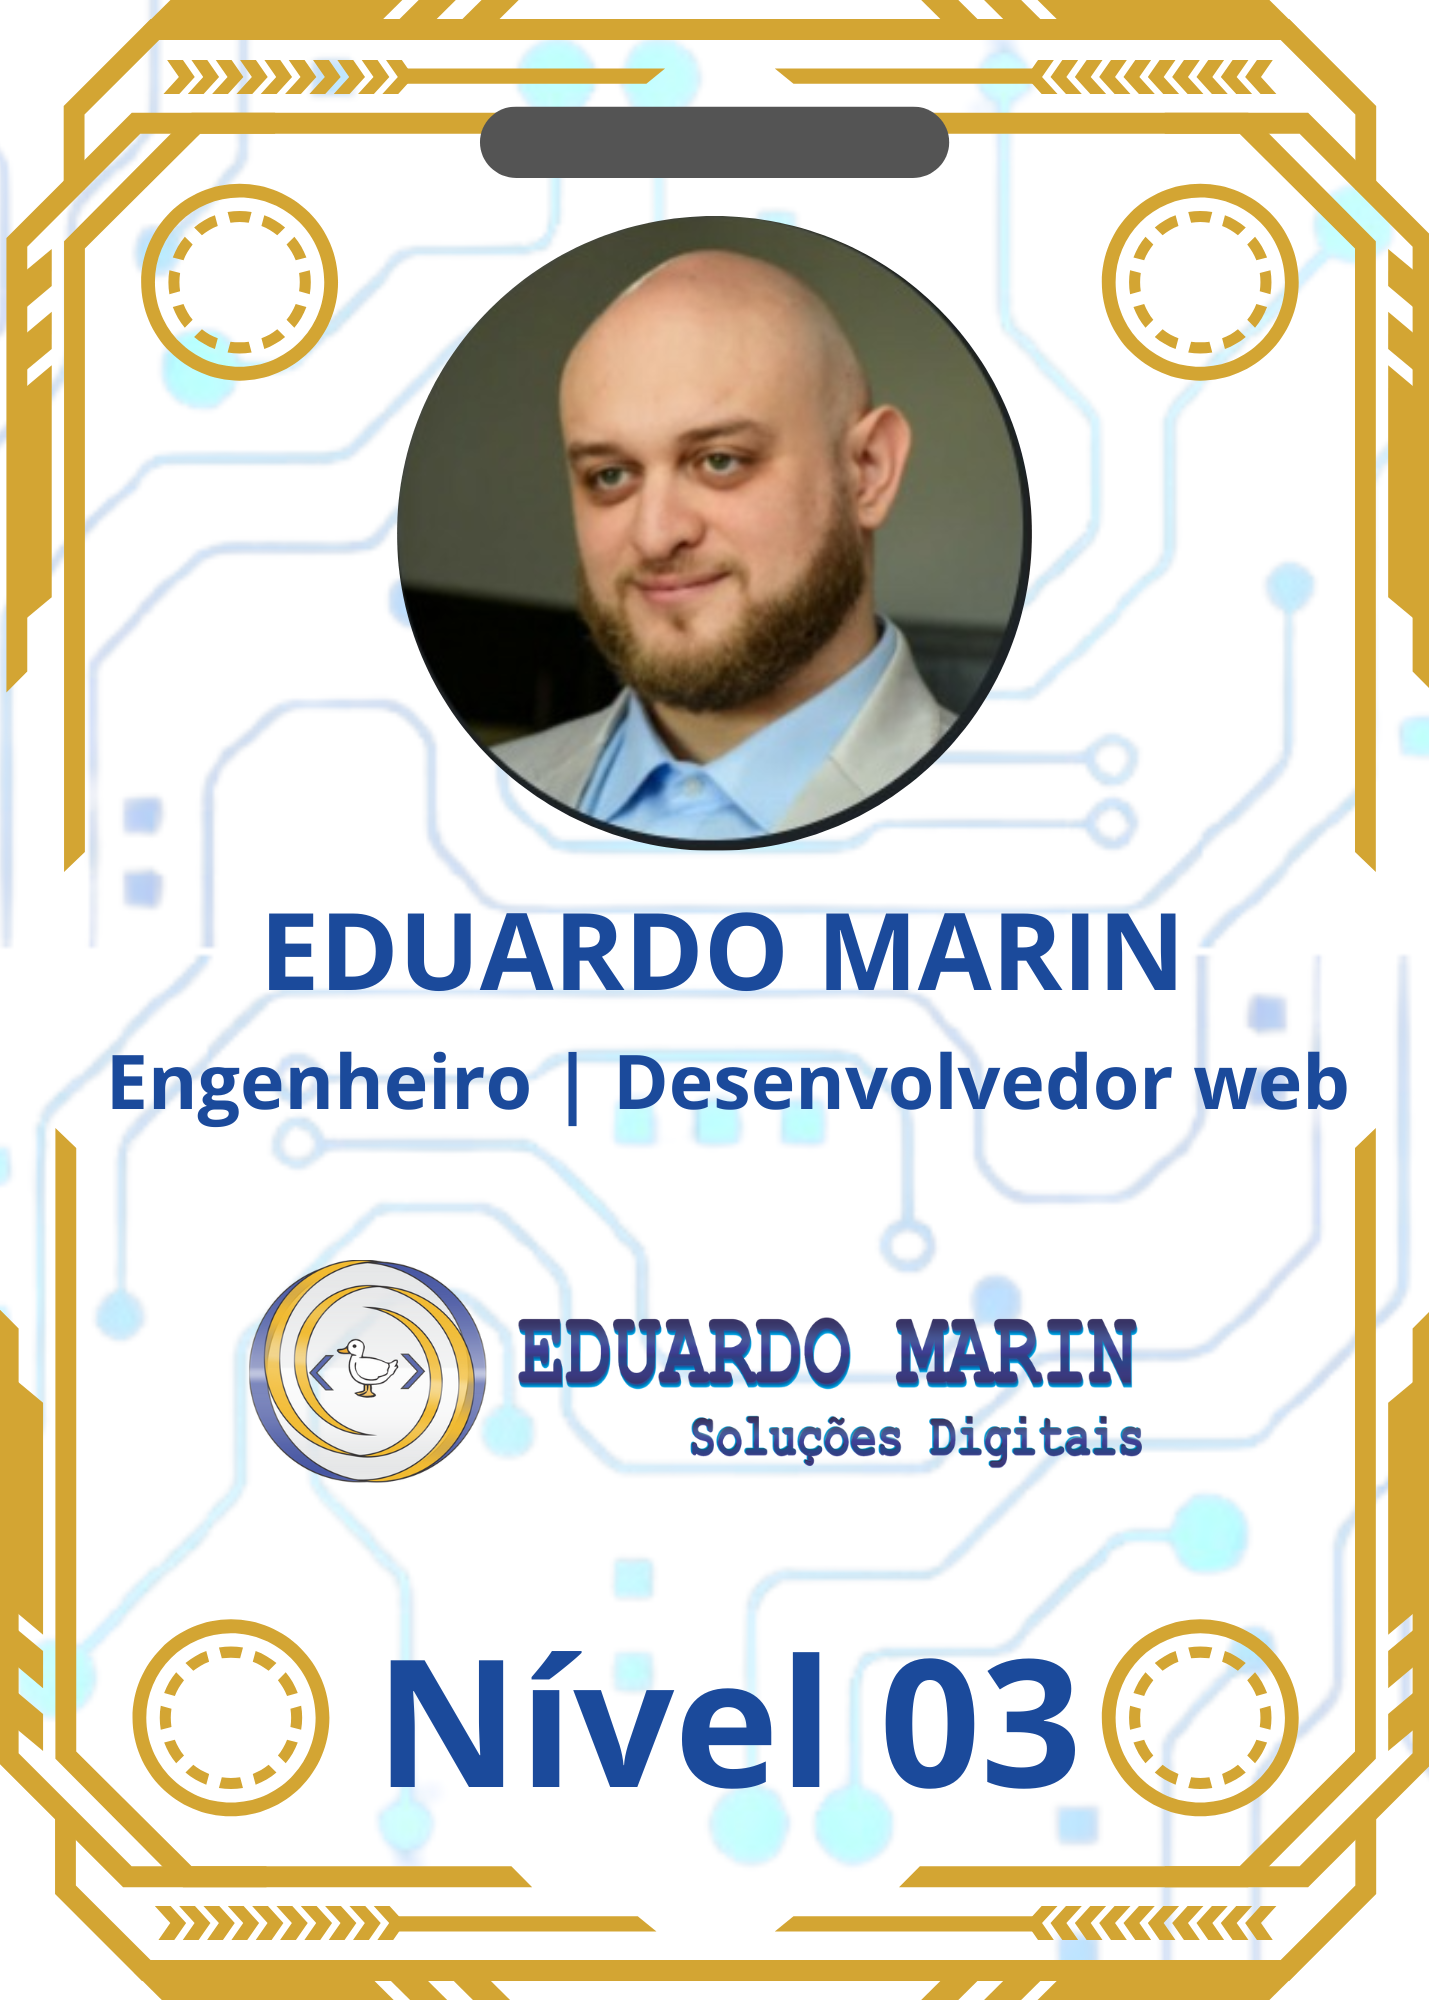
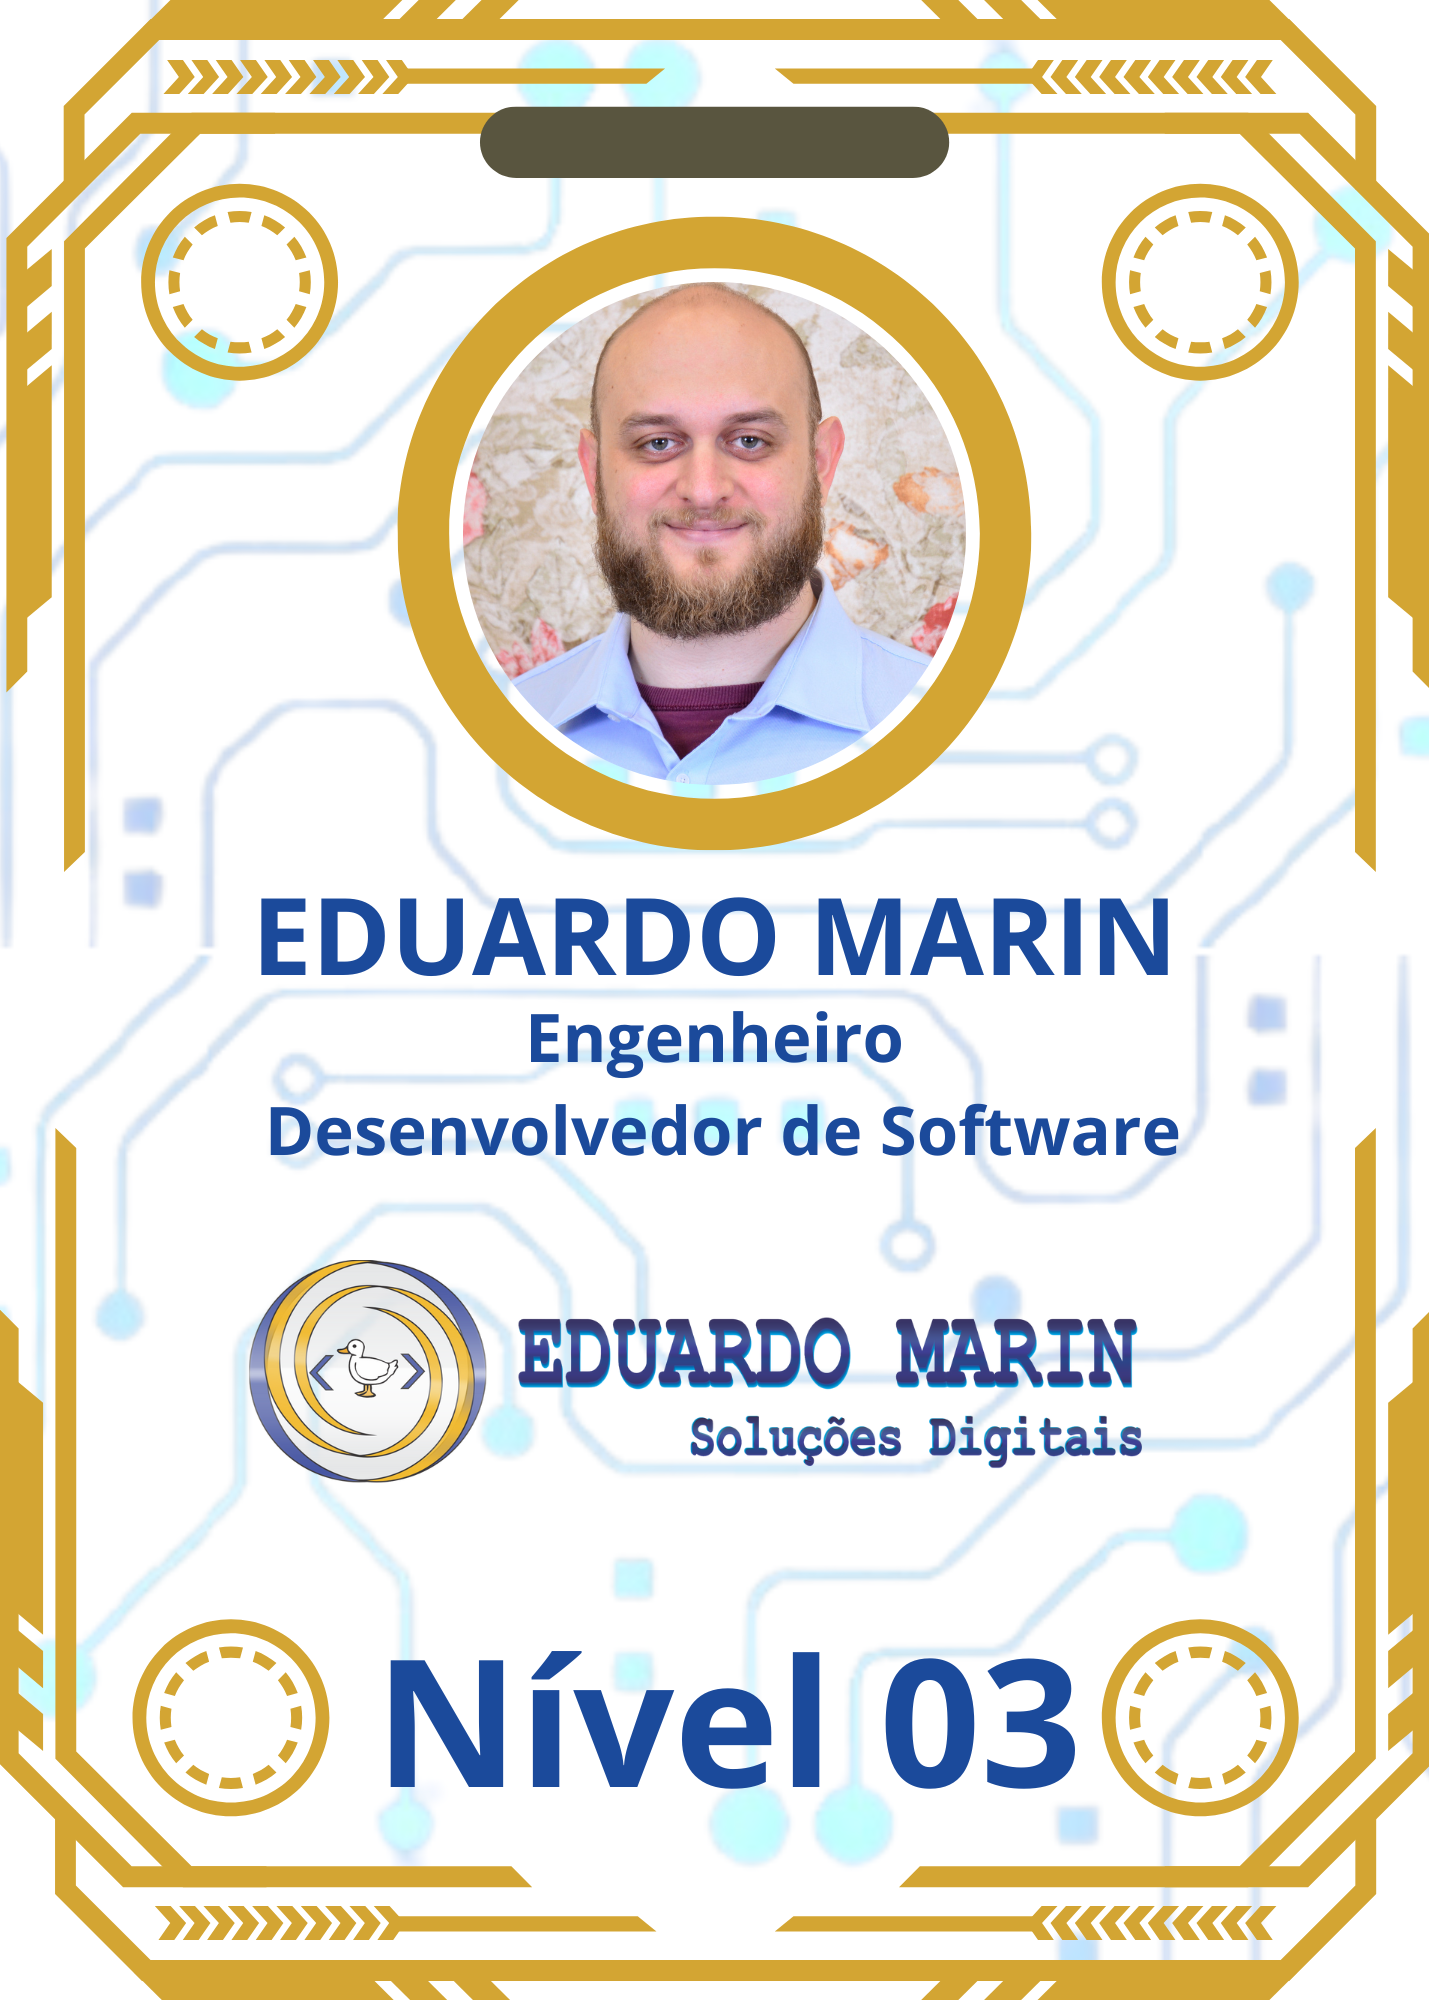
1.0.0

Changed region(s): [[0.0616, 0.093, 0.9545, 0.589]]

diff --git a/restrictedAccess.html b/restrictedAccess.html
@@ -74,7 +74,7 @@
     <div class="card-body">
       <blockquote class="blockquote mb-0">
         <p>O lugar perfeito para saber de todas as novidades e novos protótipos desenvolvidos pela <strong>Eduardo Marin Soluções Digitais</strong></p>
-        <footer class="blockquote-footer">Desenvolvedor - <cite title="Source Title">Eduardo Marin</cite></footer>
+        <footer class="blockquote-footer"><cite title="Source Title">Eduardo Marin</cite></footer>
       </blockquote>
     </div>
   </div>
@@ -155,54 +155,30 @@
 
 <div class="container-spacing"></div>
 
-
-<div class="row row-cols-1 row-cols-md-3 g-4">
-  <div class="col">
-    <div class="card h-100">
-      <img src="./images/gamingimage.png" class="card-img-top" alt="...">
-      <div class="card-body">
-        <h5 class="card-title">Templates novos</h5>
-        <p class="card-text">Desenvolvidos para atender a sua necessidade de se destacar entre os demais, conquiste seus clientes pelo seu estilo e performance em entregar a melhor experiência.</p>
-      </div>
-      <div class="card-footer">
-        <small class="text-body-secondary">20/04/2023</small>
-      </div>
+<h3 id="novidade">Boletim</h3>
+<div class="noticia-container">
+  <div class="container-spacing"></div>
+  <div class="card" style="width: 20rem; border-bottom: 5px solid #000000;border-right: 5px solid #000000;">
+    <img src="./images/aplicacaomockup.png" class="card-img-top" alt="...">
+    <div class="card-body">
+      <p class="card-text"><strong>Aplicação em softwares</strong><br>A companhia inicia investimentos em aplicações web para o desenvolvimento de softwares destinados aos empreendedores.</p>
     </div>
   </div>
-  <div class="col">
-    <div class="card h-100">
-      <img src="./images/profimage.png" class="card-img-top" alt="...">
-      <div class="card-body">
-        <h5 class="card-title">Templates novos</h5>
-        <p class="card-text">Esteja disposto a arriscar e sair vitorioso, com os novos templates da PHX você tera todos os olhares para os seus serviços.</p>
-      </div>
-      <div class="card-footer">
-        <small class="text-body-secondary">27/04/2023</small>
-      </div>
-    </div>
-  </div>
-  <div class="col">
-    <div class="card h-100">
-      <img src="./images/DUEimage.png" class="card-img-top" alt="...">
-      <div class="card-body">
-        <h5 class="card-title">Templates novos</h5>
-        <p class="card-text">Conquiste alem do que os olhos podem enxergar, com templates DUE você pode descobrir que o mundo pode ir muito além do que imagina.</p>
-      </div>
-      <div class="card-footer">
-        <small class="text-body-secondary">10/04/2023</small>
-      </div>
-    </div>
+<div class="card" style="width: 20rem; border-bottom: 5px solid #000000;border-right: 5px solid #000000;">
+  <img src="./images/parceiromockup.png" class="card-img-top" alt="...">
+  <div class="card-body">
+    <p class="card-text"><strong>Oportunidades</strong><br>Eduardo Marin Soluções Digitais abre novas vagas de parceria focada em contribuição profissional.</p>
   </div>
 </div>
-<div  class="container-spacing"></div>
-<h3 id="novidade">Boletim</h3>
+</div>
+<div class="container-spacing"></div>
 <div class="noticia-container">
   
   <div class="container-spacing"></div>
   <div class="card" style="width: 20rem; border-bottom: 5px solid #000000;border-right: 5px solid #000000;">
     <img src="./images/mockup01.png" class="card-img-top" alt="...">
     <div class="card-body">
-      <p class="card-text"><strong>Crescimento exponencial</strong><br> A companhia conquista a sua primeira sede empresarial na cidade de Itatiba - SP.</p>
+      <p class="card-text"><strong>Crescimento exponencial</strong><br> A companhia conquista a sua primeira sede empresarial na cidade de Itatiba do estado de São Paulo em 2023.</p>
     </div>
   </div>
   <div class="card" style="width: 20rem; border-bottom: 5px solid #000000;border-right: 5px solid #000000;">
@@ -275,7 +251,7 @@
 <div class="card" style="width: 20rem; border-bottom: 5px solid #000000;border-right: 5px solid #000000;">
   <img src="./images/parceiraIC.jpg" class="card-img-top" alt="...">
   <div class="card-body">
-    <p class="card-text"><strong>Marcados na historia</strong><br>Dra. Annete Silva Faesarella com seu aluno de iniciação cientifica. Juntos conseguiram publicar 2 artigos científicos focados na distribuição de energia elétrica através de energia solar fotovoltaica para veículos elétricos em 2021, com participação especial no Congresso Nacional de Iniciação científica.</p>
+    <p class="card-text"><strong>Marcados na historia</strong><br>Dra. Annete Silva Faesarella com seu aluno de iniciação cientifica. Juntos conseguiram publicar 2 artigos científicos focados na distribuição de energia elétrica através de energia solar fotovoltaica para veículos elétricos em 2021, com participação especial no Congresso Nacional de Iniciação Científica.</p>
   </div>
 </div>
 </div>
@@ -350,7 +326,7 @@
         <img src="./images/t.i.png" class="card-img-top" alt="...">
         <div class="card-body">
           <h5 class="card-title">Entenda sobre o analista de suporte</h5>
-          <p class="card-text">Linha de frente em empresas de T.I, o profissional dessa área deve possuir qualidades como "Pró-atividade, Organização, espirito de equipe" e conhecimentos em "SO Windows, redes de computadores e pacote office."</p>
+          <p class="card-text">Linha de frente em empresas de T.I, o profissional dessa área deve possuir qualidades como "Pró-atividade, organização, espirito de equipe" e conhecimentos em "SO Windows, redes de computadores e pacote office."</p>
         </div>
         <div class="card-footer">
           <small class="text-body-secondary">14/04/2023</small>

diff --git a/parceiro.html b/parceiro.html
@@ -30,11 +30,7 @@
           <div class="offcanvas-body">
             <div class="navbar-body-mobile">
               <a href="./index.html"><button class="btn-prime-mobile">Inicio</button></a><br>
-        
-            <select class="btn-navbar" id="language-selector-mobile" onchange="changeMobile()">
-              <option style="color: black;" value="pt">Português</option>
-              <option style="color: black;" value="en">English</option>
-            </select>
+              <a href="#parcerias"><button class="btn-prime-mobile">Parceiros</button></a><br>
             
           </div>
           </div>
@@ -152,7 +148,7 @@
   </button>
 </div>
 
-<div class="container">
+<div id="parcerias" class="container">
   <div class="item">
     <div class="item-title">
       <h3><strong>Guimarães Engenharia</strong></h3>

diff --git a/restrictedAccess.css b/restrictedAccess.css
@@ -179,6 +179,7 @@ main  {
   width: 99%;
 }
 @media screen and (min-width:1800px) {
+
   .noticia-container {
     display: flex;
     flex-direction: row;
@@ -190,11 +191,11 @@ main  {
   .btn-menu {
     display: flex;
     align-items: center;
-    margin-bottom: 40px;
+    margin-bottom: 30px;
   }
   main {
-    width: 90%;
-    margin-left: 7em;
+    width: 86%;
+    margin-left: 12em;
   }
   footer {
     margin-left: 10em;
@@ -267,6 +268,9 @@ h3 {
   background-image: linear-gradient(90deg, #000000,#656565,#000000);
   color: var(--fontSecudaryColor);
   
+}
+.card-img-top {
+  width: 10px;
 }
 .card-body {
   background-image: linear-gradient(90deg, #000000,#252525,#000000);

diff --git a/parceiro.css b/parceiro.css
@@ -44,7 +44,7 @@ header {
   background-image: linear-gradient(90deg, #000000,#ffffff,#000000);
   border-bottom: 2px solid white;
   opacity: 1;
-  transition: transform 0.3s ease-in-out;
+  transition: transform 0.5s ease-in-out;
 }
 .hidden {
 transform: translateY(-100px);
@@ -79,7 +79,7 @@ summary:hover {
 .eva {
   margin-left: 1em;
   position: fixed;
-  margin-top: -1em;
+  margin-top: -3em;
   z-index: 12;
 }
 .eva-icon {
@@ -106,8 +106,15 @@ summary:hover {
   }
 }
 @media  screen and (max-width: 450px) {
+  .hidden {
+    transform: translateX(-500px);
+  }
   .eva-icon {
     width: 4em;
+  }
+  .eva {
+    margin-top: -4em;
+    height: 10px;
   }
 }
 .eva-icon:hover {

diff --git a/index.html b/index.html
@@ -189,7 +189,7 @@
 </div>
 <div  id="quemSou" class="quemsou">
     <div class="cracha">
-        <img class="cracha-frente" src="./images/1.png" alt="">
+        <img class="cracha-frente" src="./images/card013.png" alt="">
         <div class="btn-container">
             <a href="./Docs/Eduardo Marin - Soluções Digitais.pdf" download="Eduardo Marin Soluções Digitais"><button class="btn-card"><span id="cartao">Cartão de visita</span> </button></a>
         </div>
